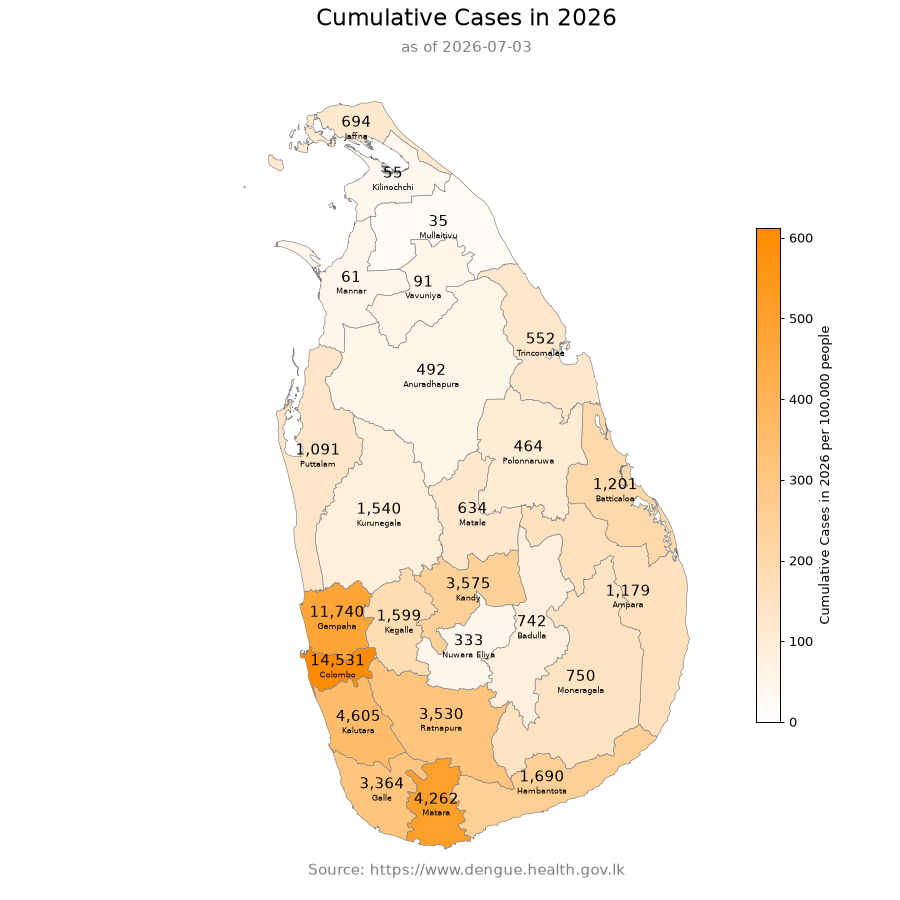
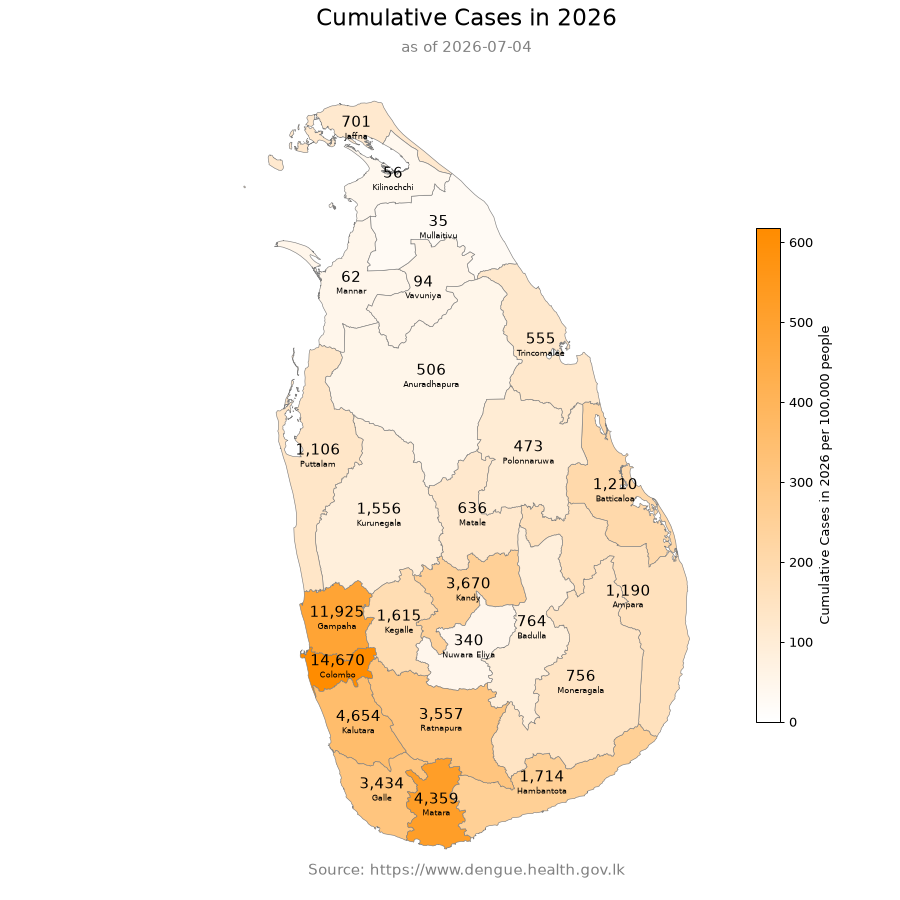
🤖 [pipeline.yml] 2026-07-05-0553

diff --git a/README.md b/README.md
@@ -273,6 +273,7 @@ As of 2026-06-28
 
 ### [National Dengue Control Unit - Daily Update](data/NDCUDaily)
 
+- [2026-07-04](data/NDCUDaily/2026/2026-07/2026-07-04)
 - [2026-07-03](data/NDCUDaily/2026/2026-07/2026-07-03)
 - [2026-07-02](data/NDCUDaily/2026/2026-07/2026-07-02)
 - [2026-07-01](data/NDCUDaily/2026/2026-07/2026-07-01)
